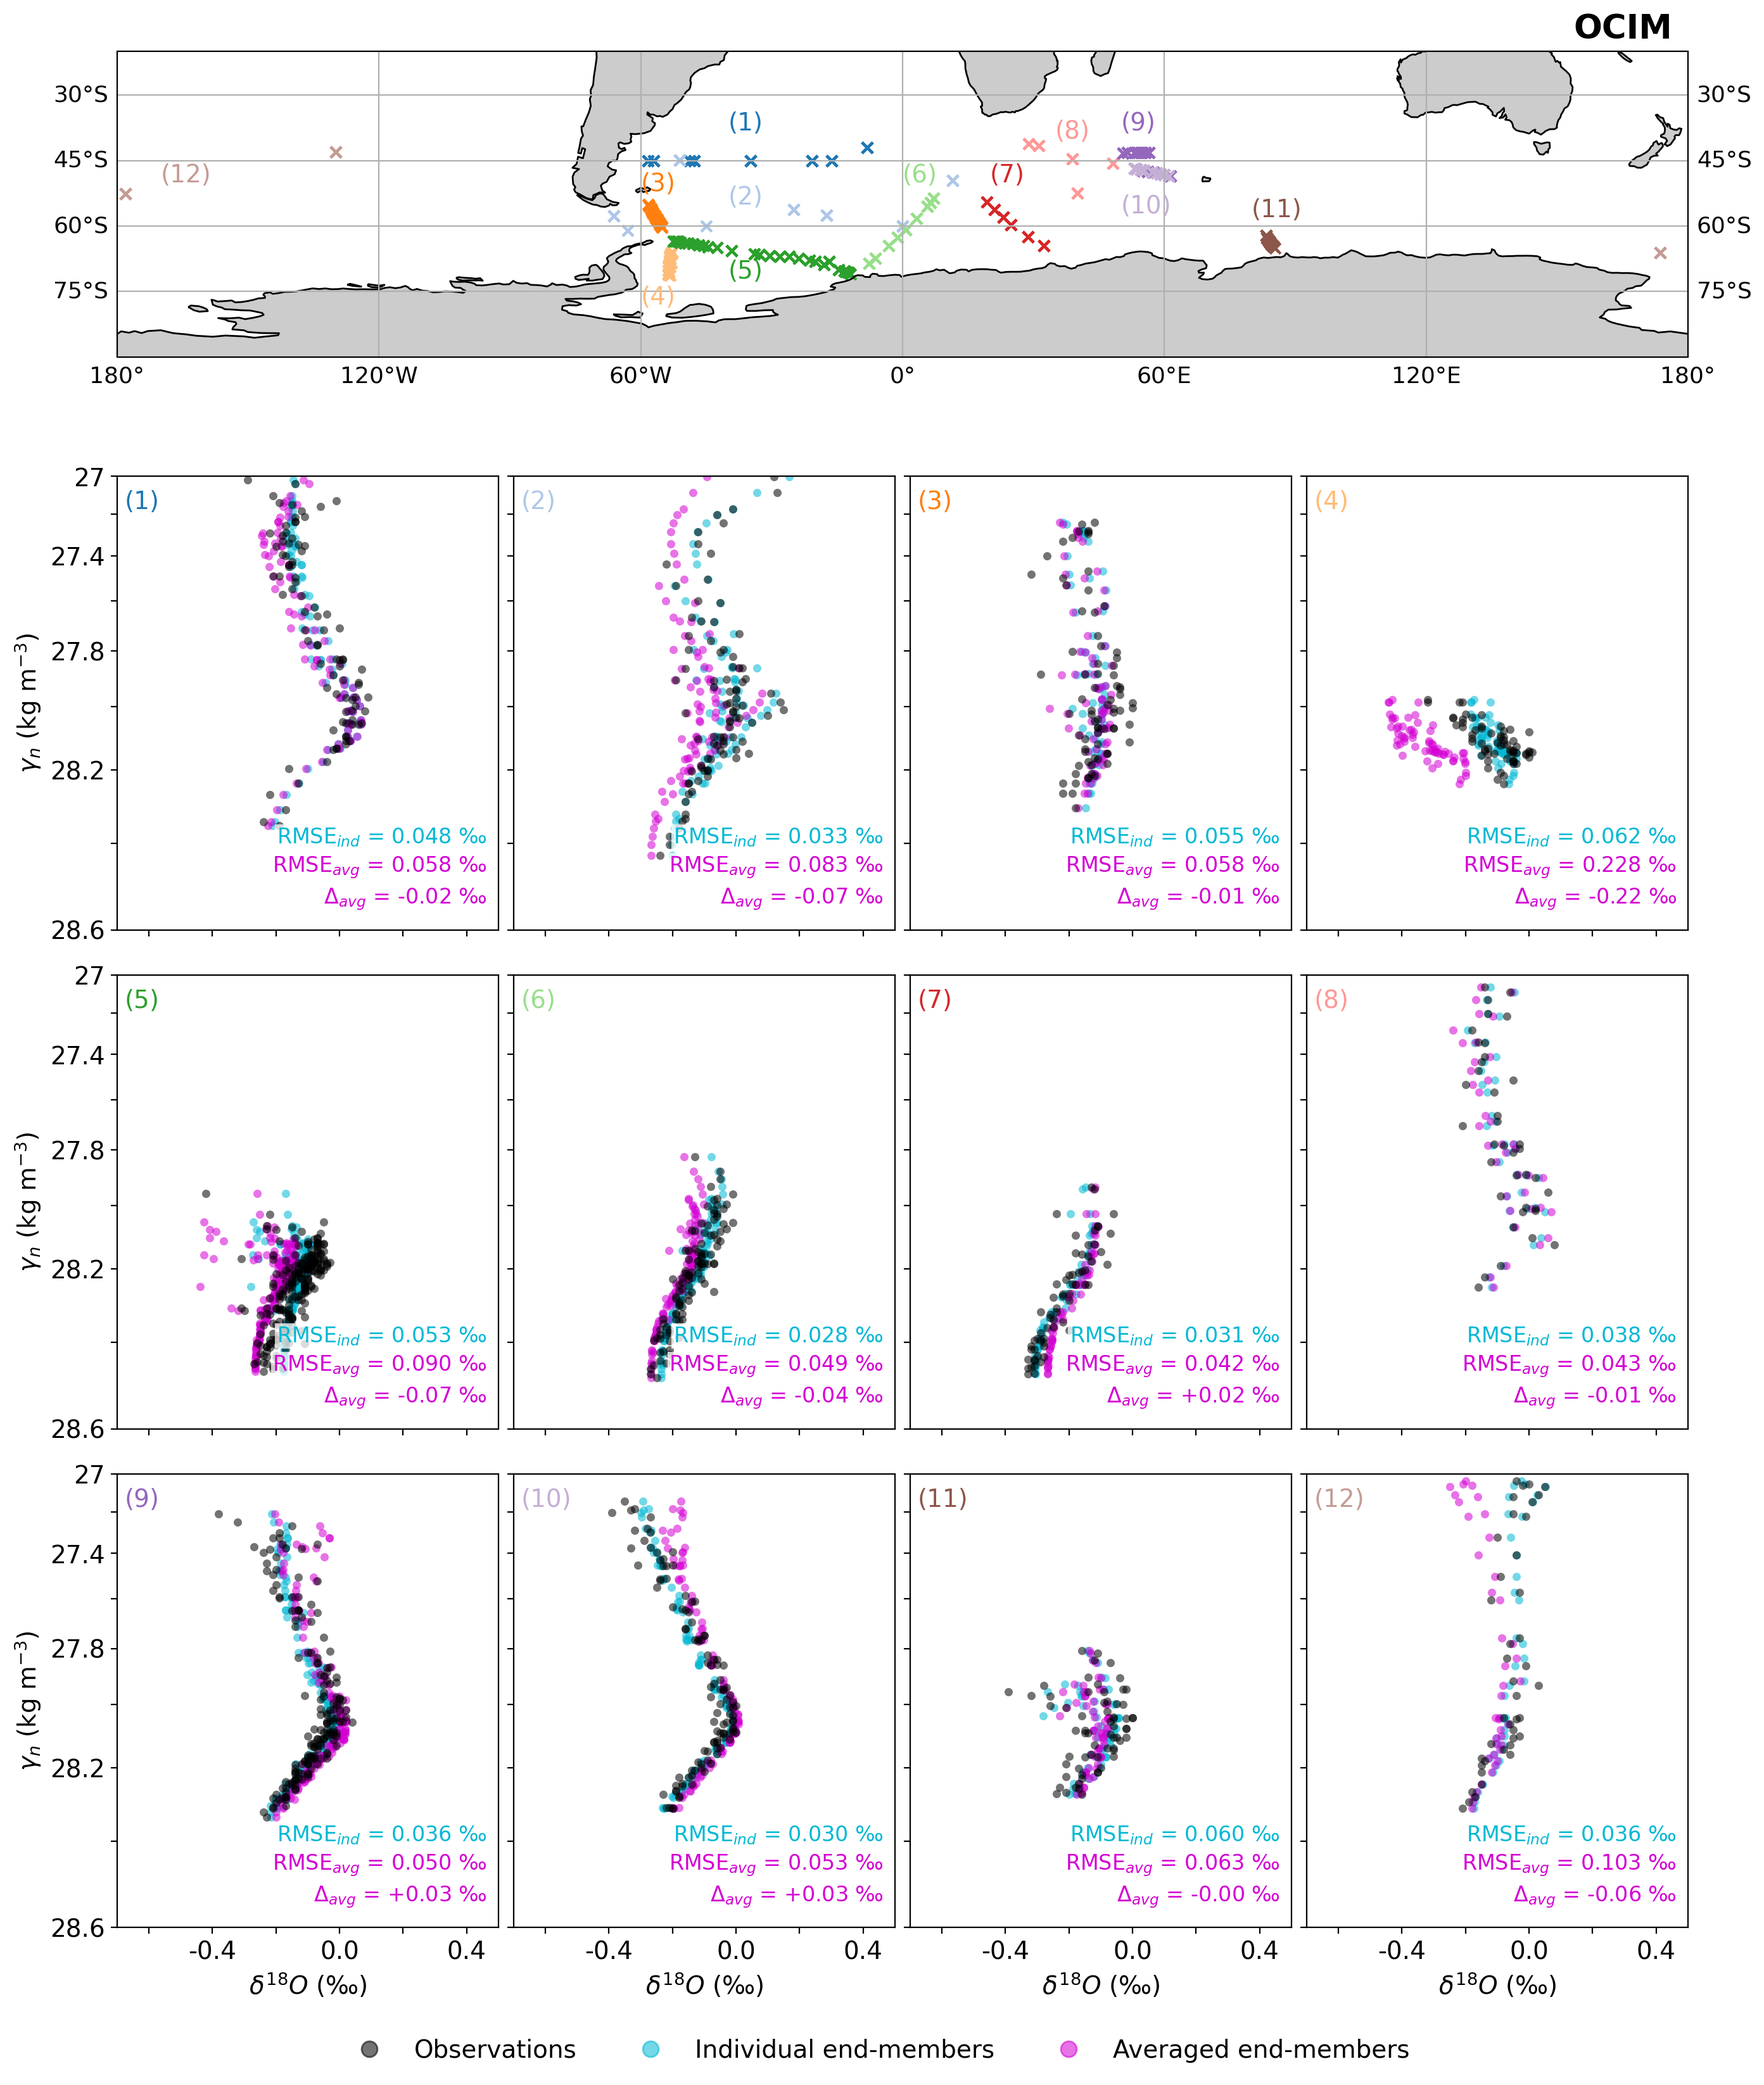
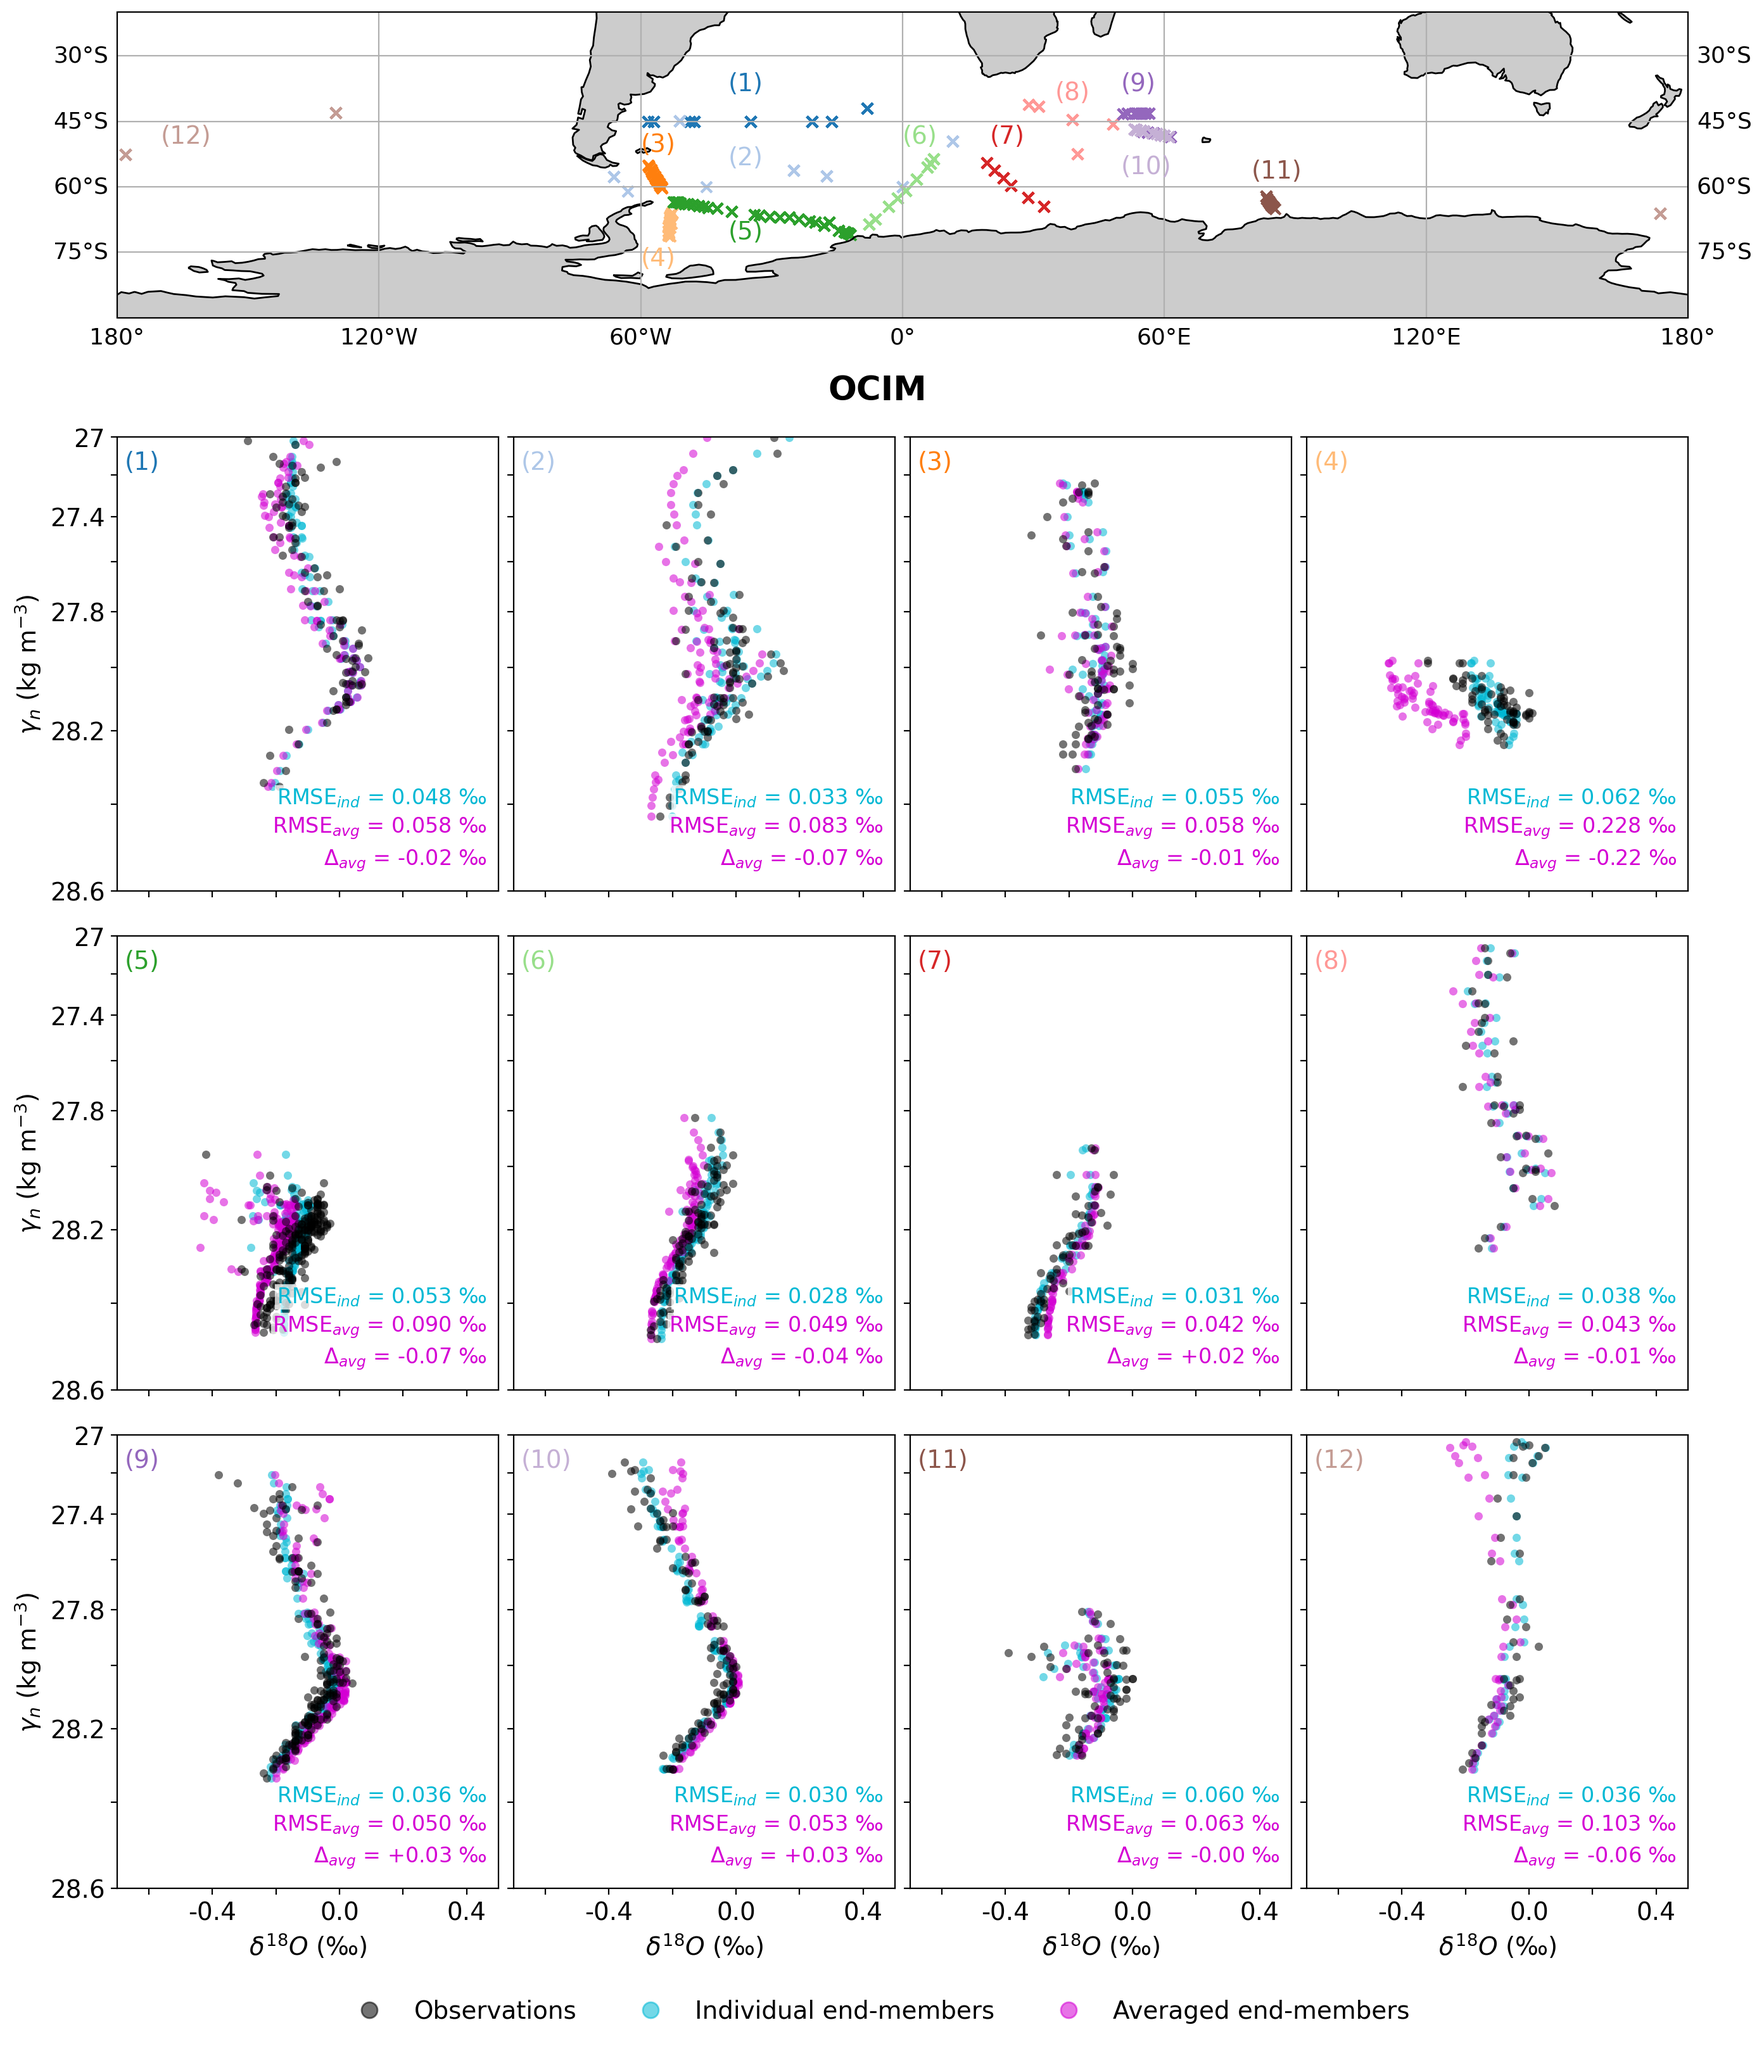
Figure 6: model name centred, TMI and NEMO versions
Model name back in the middle between the map and the panels, as in the
original figure; legends shortened to individual/averaged end-members.
Adds the TMI and NEMO versions of Figure 6 and of the crossplot.

diff --git a/analysis/review/fig6_profiles_reconstructions.py b/analysis/review/fig6_profiles_reconstructions.py
@@ -105,8 +105,6 @@ def plot(datasets, model, out, style='dots'):
                    marker='x', transform=ccrs.PlateCarree())
         ax.text(uf.coords_dataset[i][0], uf.coords_dataset[i][1], f'({i + 1})',
                 fontsize=FONT, color=couleurs[i])
-    ax.text(0.99, 1.02, model, transform=ax.transAxes, ha='right', va='bottom',
-            fontsize=FONT + 5, fontweight='bold')
 
     # --- profiles --------------------------------------------------------------
     for i in range(12):
@@ -159,6 +157,10 @@ def plot(datasets, model, out, style='dots'):
 
         if xlabels:
             ax.set_xticklabels(['', '-0.4', '', '0.0', '', '0.4'], fontsize=FONT)
+        if i == 0:
+            # model name centred in the gap between the map and the panels
+            fig.text(0.5, ax.get_position().y1 + 0.012, model, ha='center', va='bottom',
+                     fontsize=FONT + 5, fontweight='bold')
         if i == 11:
             bottom = ax.get_position().y0
 
@@ -197,7 +199,7 @@ def plot_crossplot(datasets, model, out):
     1:1 line. Same map, colours and dots as the profile figure.
     """
     fig = plt.figure(figsize=(16, 18))
-    gs = fig.add_gridspec(4, 4, wspace=0.06, hspace=0.08, height_ratios=[0.85, 1, 1, 1])
+    gs = fig.add_gridspec(4, 4, wspace=0.06, hspace=0.16, height_ratios=[0.85, 1, 1, 1])
     couleurs = plt.cm.tab20(range(12))
 
     ax = fig.add_subplot(gs[0, :], projection=ccrs.PlateCarree())
@@ -214,8 +216,6 @@ def plot_crossplot(datasets, model, out):
                    marker='x', transform=ccrs.PlateCarree())
         ax.text(uf.coords_dataset[i][0], uf.coords_dataset[i][1], f'({i + 1})',
                 fontsize=FONT, color=couleurs[i])
-    ax.text(0.99, 1.02, model, transform=ax.transAxes, ha='right', va='bottom',
-            fontsize=FONT + 5, fontweight='bold')
 
     # common square axis range covering every bottle, rounded out to 0.1 permil
     cols = ['d18O', 'd18O_rcst_' + model, 'd18O_rcst_mean_' + model]
@@ -257,6 +257,10 @@ def plot_crossplot(datasets, model, out):
             ax.set_xlabel('Observed ' + pl.D18O_LABEL, fontsize=FONT)
         if ylabels:
             ax.set_ylabel('Reconstructed ' + pl.D18O_LABEL, fontsize=FONT)
+        if i == 0:
+            # model name centred in the gap between the map and the panels
+            fig.text(0.5, ax.get_position().y1 + 0.012, model, ha='center', va='bottom',
+                     fontsize=FONT + 5, fontweight='bold')
         if i == 11:
             bottom = ax.get_position().y0
 
